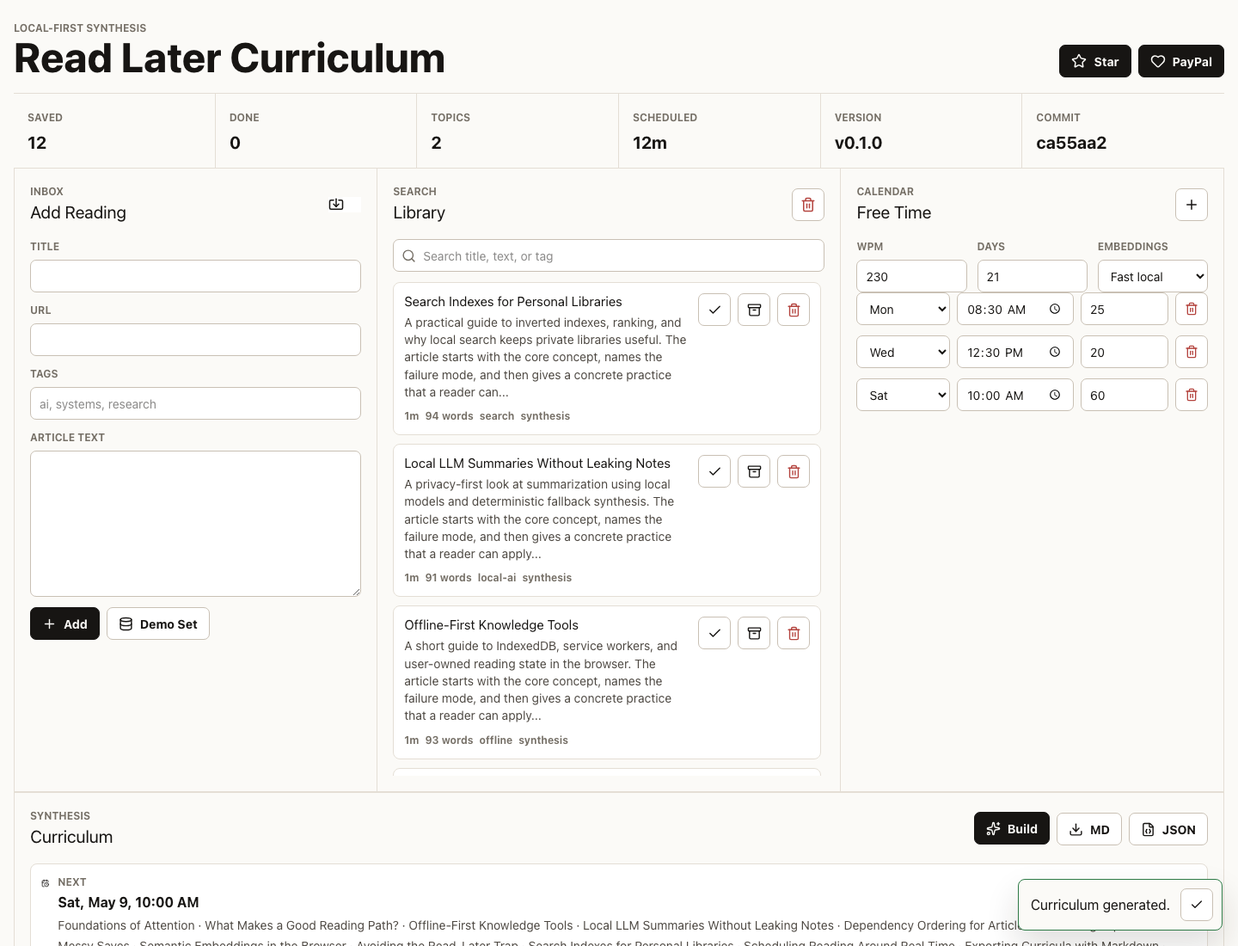
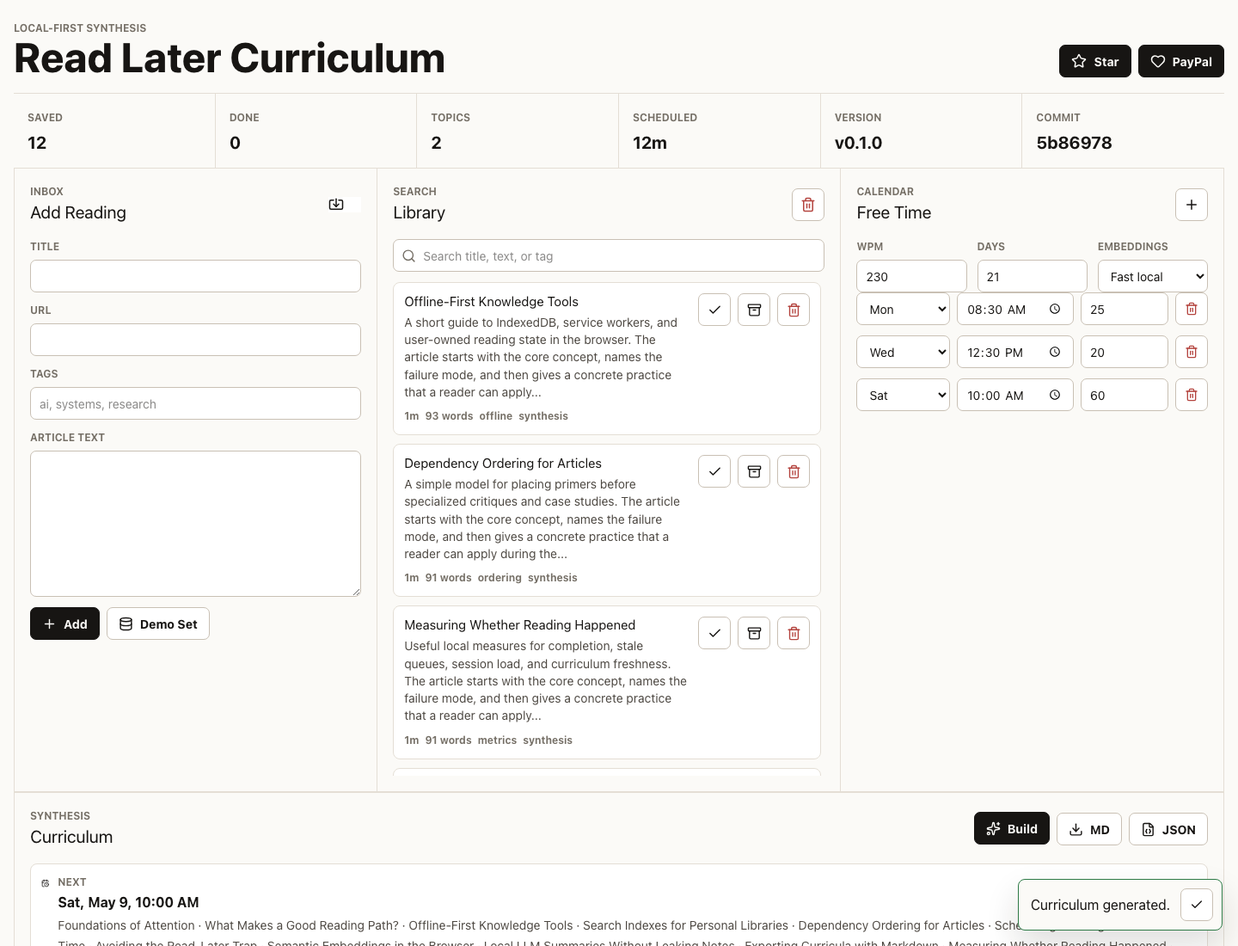
ops: make pages build metadata deterministic

diff --git a/docs/assets/index-B84jUUXN.js b/docs/assets/index-B84jUUXN.js
@@ -1,0 +1,3 @@
+const __vite__mapDeps=(i,m=__vite__mapDeps,d=(m.f||(m.f=["assets/rolldown-runtime-DWdDZTNf.js"])))=>i.map(i=>d[i]);
+import{i as e}from"./rolldown-runtime-DWdDZTNf.js";import{S as t,_ as n,a as r,b as i,c as a,d as o,f as s,g as c,h as l,i as u,l as ee,m as te,n as ne,o as re,p as ie,r as ae,s as oe,t as d,u as se,v as ce,x as f,y as le}from"./vendor-react-DQ0RudYS.js";import{a as p,c as m,d as h,f as g,i as _,l as v,o as y,p as b,r as ue,s as x,t as S,u as de}from"./vendor-CgVfIPGj.js";import{n as C}from"./semantic-embeddings-DmI_ctx4.js";(function(){let e=document.createElement(`link`).relList;if(e&&e.supports&&e.supports(`modulepreload`))return;for(let e of document.querySelectorAll(`link[rel="modulepreload"]`))n(e);new MutationObserver(e=>{for(let t of e)if(t.type===`childList`)for(let e of t.addedNodes)e.tagName===`LINK`&&e.rel===`modulepreload`&&n(e)}).observe(document,{childList:!0,subtree:!0});function t(e){let t={};return e.integrity&&(t.integrity=e.integrity),e.referrerPolicy&&(t.referrerPolicy=e.referrerPolicy),e.crossOrigin===`use-credentials`?t.credentials=`include`:e.crossOrigin===`anonymous`?t.credentials=`omit`:t.credentials=`same-origin`,t}function n(e){if(e.ep)return;e.ep=!0;let n=t(e);fetch(e.href,n)}})();var w=e(t(),1),T=f(),E=`Read Later Curriculum`,D=`https://github.com/baditaflorin/read-later-curriculum`,fe=`https://www.paypal.com/paypalme/florinbadita`,pe=`https://baditaflorin.github.io/read-later-curriculum/`,me=`0.1.0`,he=`5b86978`,ge=`2026-05-08T09:23:25.293Z`,O={readingSpeedWpm:230,daysToPlan:21,embeddingMode:`fast`,freeSlots:[{id:`weekday-morning`,weekday:1,startTime:`08:30`,minutes:25},{id:`weekday-lunch`,weekday:3,startTime:`12:30`,minutes:20},{id:`weekend-deep`,weekday:6,startTime:`10:00`,minutes:60}]},k=[`Sun`,`Mon`,`Tue`,`Wed`,`Thu`,`Fri`,`Sat`],A=new Set(`a.about.after.all.also.an.and.are.as.at.be.because.been.but.by.can.could.did.do.does.for.from.had.has.have.how.if.in.into.is.it.its.more.most.new.not.of.on.or.our.should.so.than.that.the.their.then.there.these.they.this.to.up.use.was.we.were.what.when.where.which.who.will.with.would.you.your`.split(`.`));function j(e){return e.replace(/\s+/g,` `).trim()}function M(e){return j(e).toLowerCase().replace(/https?:\/\/\S+/g,` `).replace(/[^a-z0-9\s-]/g,` `).split(/\s+/).map(e=>e.replace(/^-+|-+$/g,``)).filter(e=>e.length>2&&!A.has(e))}function N(e){return j(e).match(/\b[\p{L}\p{N}'-]+\b/gu)?.length??0}function P(e,t){return Math.max(1,Math.ceil(N(e)/Math.max(120,t)))}function F(e,t=220){let n=j(e);return n.length<=t?n:`${n.slice(0,t).replace(/\s+\S*$/,``)}...`}function _e(e,t=6){let n=new Map;for(let t of e){let e=new Set;for(let r of M(t))e.has(r)||(e.add(r),n.set(r,(n.get(r)??0)+1))}return[...n.entries()].sort((e,t)=>t[1]-e[1]||e[0].localeCompare(t[0])).slice(0,t).map(([e])=>e)}function I(e,t){let n=0,r=0,i=0,a=Math.min(e.length,t.length);for(let o=0;o<a;o+=1)n+=e[o]*t[o],r+=e[o]*e[o],i+=t[o]*t[o];return r===0||i===0?0:n/(Math.sqrt(r)*Math.sqrt(i))}function L(e){let t=Math.sqrt(e.reduce((e,t)=>e+t*t,0));return t===0?e:e.map(e=>e/t)}function R(e){let t=j(e);return t.length>78?`${t.slice(0,78).replace(/\s+\S*$/,``)}...`:t}function ve(e,t,n){let r=new Blob([t],{type:n}),i=URL.createObjectURL(r),a=document.createElement(`a`);a.href=i,a.download=e,a.click(),URL.revokeObjectURL(i)}function z(e){if(e<60)return`${e}m`;let t=Math.floor(e/60),n=e%60;return n===0?`${t}h`:`${t}h ${n}m`}function B(e){return new Intl.DateTimeFormat(void 0,{weekday:`short`,month:`short`,day:`numeric`,hour:`numeric`,minute:`2-digit`}).format(new Date(e))}function V(e){return`randomUUID`in crypto?`${e}_${crypto.randomUUID()}`:`${e}_${Date.now().toString(36)}_${Math.random().toString(36).slice(2)}`}var H=g(),U=v().trim().url().optional().or(y(``).transform(()=>void 0)),W=m({title:v().trim().min(1,`Title is required`),sourceUrl:U,author:v().trim().optional(),content:v().trim().min(40,`Article text must be at least 40 characters`),tags:p(v().trim().min(1)).default([])});W.extend({id:v(),excerpt:v(),wordCount:x().int().nonnegative(),readingMinutes:x().int().positive(),status:_([`saved`,`scheduled`,`reading`,`done`,`archived`]),createdAt:v(),updatedAt:v(),completedAt:v().optional()}).partial({id:!0,excerpt:!0,wordCount:!0,readingMinutes:!0,status:!0,createdAt:!0,updatedAt:!0});function G(e,t){let n=W.parse(e),r=new Date().toISOString(),i=j(n.content),a=j(n.title),o=[...new Set(n.tags.map(e=>e.toLowerCase()))],s=i.split(/\s+/).filter(Boolean).length;return{id:V(`article`),title:a,sourceUrl:n.sourceUrl,author:n.author?j(n.author):void 0,content:i,excerpt:F(i),tags:o,wordCount:s,readingMinutes:P(i,t),status:`saved`,createdAt:r,updatedAt:r}}var ye=de([p(h()),m({articles:p(h())})]);function be(e){let t=e.tags?.split(`,`).map(e=>e.trim()).filter(Boolean)??[];return W.parse({title:e.title,sourceUrl:e.sourceUrl,content:e.content,tags:t})}function xe(e,t=`article.txt`){let n=j(e),r=e.split(/\r?\n/).map(e=>e.trim()).filter(Boolean).find(e=>e.length>4&&e.length<140);return W.parse({title:r??t.replace(/\.[^.]+$/,``),content:n,tags:[]})}function Se(e,t=`article.md`){let n=e.match(/^#\s+(.+)$/m)?.[1],r=e.replace(/^#{1,6}\s+/gm,``).replace(/\[([^\]]+)\]\([^)]+\)/g,`$1`).replace(/[`*_>#-]/g,` `);return W.parse({title:n?.trim()||t.replace(/\.[^.]+$/,``),content:j(r),tags:[`markdown`]})}function Ce(e,t=`article.html`){let n=new DOMParser().parseFromString(e,`text/html`),r=new H.Readability(n).parse(),i=r?.title||n.querySelector(`title`)?.textContent||t.replace(/\.[^.]+$/,``),a=r?.textContent||n.body?.textContent||n.documentElement.textContent||F(e,500);return W.parse({title:i,author:r?.byline??void 0,content:j(a),tags:[`html`]})}function we(e){let t=JSON.parse(e),n=ye.parse(t),r=Array.isArray(n)?n:n.articles,i=[],a=[];return r.forEach((e,t)=>{let n=W.safeParse(e);n.success?a.push(n.data):i.push(`Skipped item ${t+1}: ${n.error.issues[0]?.message??`invalid article`}`)}),{articles:a,warnings:i}}async function Te(e){let t=await e.text(),n=e.name.toLowerCase();return n.endsWith(`.json`)?we(t):{articles:[n.endsWith(`.html`)||n.endsWith(`.htm`)?Ce(t,e.name):n.endsWith(`.md`)||n.endsWith(`.markdown`)?Se(t,e.name):xe(t,e.name)],warnings:[]}}var K=new ue(`read-later-curriculum`);K.version(1).stores({articles:`id, title, status, createdAt, updatedAt, *tags`,plans:`id, generatedAt`,settings:`key`});async function Ee(){return K.articles.orderBy(`createdAt`).reverse().toArray()}async function De(e){return await K.articles.bulkPut(e),Ee()}async function Oe(e){let t={...e,updatedAt:new Date().toISOString()};return await K.articles.put(t),t}async function ke(e){await K.articles.delete(e)}async function Ae(){await K.articles.clear(),await K.plans.clear()}async function je(){return await K.plans.orderBy(`generatedAt`).reverse().first()??null}async function Me(e){return await K.plans.put(e),e}async function Ne(){return(await K.settings.get(`user-settings`))?.value??O}async function Pe(e){return await K.settings.put({key:`user-settings`,value:e}),e}var Fe=S.Document;function Ie(e,t){let n=t.trim();if(!n)return e;let r=new Fe({tokenize:`forward`,document:{id:`id`,index:[`title`,`content`,`tags`]}});for(let t of e)r.add({id:t.id,title:t.title,content:`${t.excerpt} ${t.content.slice(0,8e3)}`,tags:t.tags.join(` `)});let i=new Set(r.search(n,{enrich:!0,limit:100}).flatMap(e=>e.result.map(e=>e.id)));return e.filter(e=>i.has(e.id))}var q=96,Le=`sentence-transformers/all-MiniLM-L6-v2`;function Re(e){let t=2166136261;for(let n=0;n<e.length;n+=1)t^=e.charCodeAt(n),t=Math.imul(t,16777619);return t>>>0}function ze(e){return e.map(e=>{let t=Array.from({length:q},()=>0);for(let n of M(e)){let e=Re(n),r=e%q,i=e%2==0?1:-1;t[r]+=i}return L(t)})}function Be(e,t){if(Array.isArray(e))return e.map(e=>L(e.map(Number)));let n=e.tolist?.();if(Array.isArray(n)){let e=n[0];if(Array.isArray(e)&&Array.isArray(e[0]))return n.map(e=>L(e[0].map(Number)));if(Array.isArray(e))return n.map(e=>L(e.map(Number)))}if(e.data&&e.dims&&e.dims.length>=2){let n=[...e.data].map(Number),r=e.dims.at(-1)??q,i=[];for(let e=0;e<n.length;e+=r)i.push(L(n.slice(e,e+r)));return i.slice(0,t)}throw Error(`Embedding model returned an unsupported tensor shape`)}async function Ve(e,t,n){if(t===`fast`)return n?.({completed:e.length,total:e.length,detail:`Using fast local hash embeddings`}),{vectors:ze(e),provider:`hash-local`};try{n?.({completed:0,total:e.length,detail:`Loading sentence-transformers model`});let t=await C(()=>import(`./semantic-embeddings-DmI_ctx4.js`).then(e=>e.t),__vite__mapDeps([0]));t.env&&(t.env.allowLocalModels=!1,t.env.allowRemoteModels=!0);let r=await t.pipeline(`feature-extraction`,Le,{dtype:`q8`,device:`wasm`}),i=[];for(let t=0;t<e.length;t+=8){let a=e.slice(t,t+8),o=await r(a,{pooling:`mean`,normalize:!0});i.push(...Be(o,a.length)),n?.({completed:Math.min(t+a.length,e.length),total:e.length,detail:`Embedding articles with sentence-transformers`})}return{vectors:i,provider:`sentence-transformers`}}catch{return n?.({completed:e.length,total:e.length,detail:`Semantic model unavailable; using local fallback embeddings`}),{vectors:ze(e),provider:`sentence-transformers-fallback`}}}function He(e,t,n=new Date){let r=[],i=new Date(n);i.setSeconds(0,0);for(let a=0;a<=t;a+=1){let t=new Date(i);t.setDate(i.getDate()+a);for(let i of e){if(t.getDay()!==i.weekday)continue;let[e,a]=i.startTime.split(`:`).map(Number),o=new Date(t);o.setHours(e,a,0,0),o>n&&r.push({startsAt:o,slot:i})}}return r.sort((e,t)=>e.startsAt.getTime()-t.startsAt.getTime())}function Ue(e,t,n,r){let i=new Map;for(let e of t)for(let t of e.articleIds)i.set(t,e.id);let a=He(n,r),o=[...e],s=[];for(let{startsAt:e,slot:n}of a){if(o.length===0)break;let r=[],a=0;for(;o.length>0;){let e=o[0];if(r.length>0&&a+e.readingMinutes>n.minutes||(r.push(e),a+=e.readingMinutes,o.shift(),a>=n.minutes*.8))break}let c=r[0];s.push({id:V(`session`),topicId:i.get(c.id)??t[0]?.id??`topic_misc`,articleIds:r.map(e=>e.id),startsAt:e.toISOString(),durationMinutes:n.minutes,loadMinutes:a,label:`${n.startTime} reading block`,status:`planned`})}return s}function We(e,t){let n=e.slice(0,4).map(e=>e.title).join(`; `);return`Focuses on ${t.slice(0,4).join(`, `)||`related ideas`} through ${e.length} reading${e.length===1?``:`s`}: ${n}.`}var Ge=new Set([`beginner`,`basics`,`basic`,`foundation`,`foundations`,`guide`,`intro`,`introduction`,`overview`,`primer`,`start`,`what`]);function Ke(e){return e<=3?1:Math.min(12,Math.max(2,Math.round(Math.sqrt(e/2))))}function qe(e){if(e.length===0)return[];let t=e[0].length,n=Array.from({length:t},()=>0);for(let r of e)for(let e=0;e<t;e+=1)n[e]+=r[e];return L(n.map(t=>t/e.length))}function Je(e,t){let n=[e[0]];for(;n.length<t;){let t=0,r=-1/0;e.forEach((e,i)=>{let a=1-Math.max(...n.map(t=>I(e,t)));a>r&&(r=a,t=i)}),n.push(e[t])}return n}function Ye(e,t,n){let r=Je(t,n),i=[];for(let n=0;n<8;n+=1)i=e.map((e,n)=>{let i=t[n];return{article:e,vector:i,clusterIndex:r.map((e,t)=>({centroidIndex:t,score:I(i,e)})).sort((e,t)=>t.score-e.score)[0].centroidIndex}}),r=r.map((e,t)=>{let n=i.filter(e=>e.clusterIndex===t).map(e=>e.vector);return n.length>0?qe(n):e});return i}function J(e){let t=M(`${e.title} ${e.excerpt}`).filter(e=>Ge.has(e)).length*4,n=Math.max(0,8-e.readingMinutes)*.3,r=+!!e.title.endsWith(`?`);return t+n+r}function Xe(e){let t=new Map;for(let n of e){let e=t.get(n.clusterIndex)??[];e.push(n),t.set(n.clusterIndex,e)}return[...t.entries()].map(([e,t])=>{let n=t.map(e=>e.article),r=_e(n.map(e=>`${e.title} ${e.excerpt} ${e.tags.join(` `)}`),6),i=r.length>0?r.slice(0,3).map(Ze).join(` / `):`Reading Path`,a=n.sort((e,t)=>J(t)-J(e)||e.readingMinutes-t.readingMinutes).map(e=>e.id);return{id:`topic_${e+1}`,label:i,summary:We(n,r),articleIds:a,prerequisiteTopicIds:[],readingMinutes:n.reduce((e,t)=>e+t.readingMinutes,0),keywords:r,foundation:n.reduce((e,t)=>e+J(t),0)/n.length}}).sort((e,t)=>t.foundation-e.foundation||e.readingMinutes-t.readingMinutes).map((e,t,n)=>({id:e.id,label:e.label,summary:e.summary,articleIds:e.articleIds,prerequisiteTopicIds:t===0?[]:[n[t-1].id],readingMinutes:e.readingMinutes,keywords:e.keywords}))}function Ze(e){return e.charAt(0).toUpperCase()+e.slice(1)}function Qe(e){let t=[...e].sort((e,t)=>J(t)-J(e)||e.readingMinutes-t.readingMinutes),n=t.filter(e=>e.readingMinutes<=8),r=t.filter(e=>e.readingMinutes>8),i=[];for(;n.length>0||r.length>0;){let e=n.shift();e&&i.push(e);let t=r.shift();t&&i.push(t)}return i}async function $e(e,t,n){let r=e.filter(e=>e.status!==`archived`);if(r.length===0)throw Error(`Add at least one article before building a curriculum.`);n?.({phase:`embedding`,detail:`Preparing article text`,completed:0,total:r.length});let i=await Ve(r.map(e=>`${e.title}\n${e.tags.join(`, `)}\n${e.excerpt}\n${e.content.slice(0,3e3)}`),t.embeddingMode,e=>n?.({phase:`embedding`,...e}));n?.({phase:`clustering`,detail:`Clustering nearby ideas`,completed:r.length,total:r.length});let a=Ke(r.length),o=Ye(r,i.vectors,a);n?.({phase:`ordering`,detail:`Dependency-ordering topics`,completed:0,total:a});let s=Xe(o),c=new Map(r.map(e=>[e.id,e])),l=s.flatMap(e=>Qe(e.articleIds.map(e=>c.get(e)).filter(Boolean)));n?.({phase:`scheduling`,detail:`Packing readings into free time`,completed:0,total:l.length});let u=Ue(l,s,t.freeSlots,t.daysToPlan);return n?.({phase:`done`,detail:`Curriculum ready`,completed:l.length,total:l.length}),{id:V(`plan`),schemaVersion:`v1`,generatedAt:new Date().toISOString(),articleCount:r.length,totalReadingMinutes:r.reduce((e,t)=>e+t.readingMinutes,0),embeddingProvider:i.provider,topics:s,sessions:u,orderedArticleIds:l.map(e=>e.id),settings:t}}function et(e,t){if(!e)return null;let n=new Map(t.map(e=>[e.id,e])),r=e.sessions.find(e=>e.status===`planned`)??e.sessions[0];return r?{session:r,articles:r.articleIds.map(e=>n.get(e)).filter(e=>!!e),title:R(r.label)}:null}function tt(e,t){return JSON.stringify({exportedAt:new Date().toISOString(),app:E,repository:D,articles:t,plan:e},null,2)}function nt(e,t){let n=new Map(t.map(e=>[e.id,e])),r=[`# ${E}`,``,`Generated: ${e.generatedAt}`,`Articles: ${e.articleCount}`,`Reading time: ${e.totalReadingMinutes} minutes`,`Embedding provider: ${e.embeddingProvider}`,`Repository: ${D}`,``,`## Topics`,``];for(let t of e.topics){r.push(`### ${t.label}`,``,t.summary,``),t.prerequisiteTopicIds.length>0&&r.push(`Prerequisite topic: ${t.prerequisiteTopicIds.join(`, `)}`,``);for(let e of t.articleIds){let t=n.get(e);t&&r.push(`- ${t.title} (${t.readingMinutes}m)${t.sourceUrl?` - ${t.sourceUrl}`:``}`)}r.push(``)}r.push(`## Schedule`,``);for(let t of e.sessions){let e=t.articleIds.map(e=>n.get(e)?.title).filter(Boolean).join(`; `);r.push(`- ${B(t.startsAt)}: ${e} (${t.loadMinutes}m in ${t.durationMinutes}m slot)`)}return r.push(``,`## Pandoc`,``,`This Markdown is Pandoc-ready:`,``,"```sh",`pandoc curriculum.md -o curriculum.pdf`,"```",``),r.join(`
+`)}var Y=i(),X=[`articles`],Z=[`plan`],rt=[`settings`],it=[];function Q(e){return e instanceof Error?e.message:`Something went wrong.`}function at(e){return`${k[e.weekday]} ${e.startTime} · ${e.minutes}m`}function ot(){let e=le(),[t,i]=(0,w.useState)(null),[l,ce]=(0,w.useState)(``),[f,p]=(0,w.useState)(``),[m,h]=(0,w.useState)(``),[g,_]=(0,w.useState)(``),[v,y]=(0,w.useState)(``),[b,ue]=(0,w.useState)({phase:`idle`,detail:``,completed:0,total:0}),x=n({queryKey:X,queryFn:Ee}),S=n({queryKey:Z,queryFn:je}),de=n({queryKey:rt,queryFn:Ne}),C=x.data??it,T=S.data??null,A=de.data??O,j=(0,w.useMemo)(()=>Ie(C,l),[C,l]),M=(0,w.useMemo)(()=>et(T,C),[C,T]),N=C.filter(e=>e.status===`done`).length,P=c({mutationFn:De,onSuccess:()=>{e.invalidateQueries({queryKey:X}),i({tone:`success`,message:`Library updated.`})},onError:e=>i({tone:`error`,message:Q(e)})}),F=c({mutationFn:Oe,onSuccess:()=>{e.invalidateQueries({queryKey:X}),e.invalidateQueries({queryKey:Z})},onError:e=>i({tone:`error`,message:Q(e)})}),_e=c({mutationFn:Pe,onSuccess:()=>void e.invalidateQueries({queryKey:rt}),onError:e=>i({tone:`error`,message:Q(e)})}),I=c({mutationFn:async()=>Me(await $e(C,A,ue)),onSuccess:()=>{e.invalidateQueries({queryKey:Z}),i({tone:`success`,message:`Curriculum generated.`})},onError:e=>i({tone:`error`,message:Q(e)})});async function L(e){e.preventDefault();let t=G(be({title:f,sourceUrl:m,tags:g,content:v}),A.readingSpeedWpm);await P.mutateAsync([t]),p(``),h(``),_(``),y(``)}async function R(e){let t=[...e.target.files??[]];if(t.length===0)return;let n=[],r=[];for(let e of t){let t=await Te(e);r.push(...t.warnings),n.push(...t.articles.map(e=>G(e,A.readingSpeedWpm)))}await P.mutateAsync(n),r.length>0&&i({tone:`info`,message:r.slice(0,2).join(` `)}),e.target.value=``}async function V(){let e=await fetch(`/read-later-curriculum/data/v1/sample-articles.json`);if(!e.ok)throw Error(`Sample articles are missing. Run make data.`);let t=(await e.json()).map(e=>G(e,A.readingSpeedWpm));await P.mutateAsync(t)}function H(e){_e.mutate({...A,...e})}function U(e,t){H({freeSlots:A.freeSlots.map(n=>n.id===e?{...n,...t}:n)})}function W(){H({freeSlots:[...A.freeSlots,{id:`slot_${Date.now().toString(36)}`,weekday:2,startTime:`18:30`,minutes:30}]})}async function ye(t){await ke(t),await e.invalidateQueries({queryKey:X}),i({tone:`success`,message:`Article removed.`})}async function xe(){await Ae(),await e.invalidateQueries({queryKey:X}),await e.invalidateQueries({queryKey:Z}),i({tone:`success`,message:`Local library cleared.`})}function Se(){if(!T){i({tone:`error`,message:`Build a curriculum first.`});return}ve(`curriculum.md`,nt(T,C),`text/markdown`)}function Ce(){if(!T){i({tone:`error`,message:`Build a curriculum first.`});return}ve(`read-later-curriculum-v1.json`,tt(T,C),`application/json`)}return(0,Y.jsxs)(`main`,{className:`app-shell`,children:[(0,Y.jsxs)(`header`,{className:`topbar`,children:[(0,Y.jsxs)(`div`,{children:[(0,Y.jsx)(`p`,{className:`eyebrow`,children:`Local-first synthesis`}),(0,Y.jsx)(`h1`,{children:E})]}),(0,Y.jsxs)(`nav`,{"aria-label":`Project links`,className:`topbar-actions`,children:[(0,Y.jsxs)(`a`,{href:D,target:`_blank`,rel:`noreferrer`,className:`icon-link`,title:`Star on GitHub`,children:[(0,Y.jsx)(ne,{size:18,"aria-hidden":`true`}),(0,Y.jsx)(`span`,{children:`Star`})]}),(0,Y.jsxs)(`a`,{href:fe,target:`_blank`,rel:`noreferrer`,className:`icon-link`,title:`Support on PayPal`,children:[(0,Y.jsx)(a,{size:18,"aria-hidden":`true`}),(0,Y.jsx)(`span`,{children:`PayPal`})]})]})]}),(0,Y.jsxs)(`section`,{className:`summary-strip`,"aria-label":`Library summary`,children:[(0,Y.jsx)($,{label:`Saved`,value:C.length.toString()}),(0,Y.jsx)($,{label:`Done`,value:N.toString()}),(0,Y.jsx)($,{label:`Topics`,value:(T?.topics.length??0).toString()}),(0,Y.jsx)($,{label:`Scheduled`,value:z(T?.sessions.reduce((e,t)=>e+t.loadMinutes,0)??0)}),(0,Y.jsx)($,{label:`Version`,value:`v${me}`}),(0,Y.jsx)($,{label:`Commit`,value:he})]}),(0,Y.jsxs)(`div`,{className:`workspace-grid`,children:[(0,Y.jsxs)(`section`,{className:`panel import-panel`,"aria-labelledby":`add-article`,children:[(0,Y.jsxs)(`div`,{className:`panel-heading`,children:[(0,Y.jsxs)(`div`,{children:[(0,Y.jsx)(`p`,{className:`eyebrow`,children:`Inbox`}),(0,Y.jsx)(`h2`,{id:`add-article`,children:`Add Reading`})]}),(0,Y.jsxs)(`label`,{className:`icon-button`,title:`Import files`,children:[(0,Y.jsx)(oe,{size:18,"aria-hidden":`true`}),(0,Y.jsx)(`span`,{className:`sr-only`,children:`Import files`}),(0,Y.jsx)(`input`,{type:`file`,accept:`.txt,.md,.markdown,.html,.htm,.json`,multiple:!0,onChange:R})]})]}),(0,Y.jsxs)(`form`,{className:`article-form`,onSubmit:L,children:[(0,Y.jsxs)(`label`,{children:[(0,Y.jsx)(`span`,{children:`Title`}),(0,Y.jsx)(`input`,{value:f,onChange:e=>p(e.target.value),required:!0})]}),(0,Y.jsxs)(`label`,{children:[(0,Y.jsx)(`span`,{children:`URL`}),(0,Y.jsx)(`input`,{type:`url`,value:m,onChange:e=>h(e.target.value)})]}),(0,Y.jsxs)(`label`,{children:[(0,Y.jsx)(`span`,{children:`Tags`}),(0,Y.jsx)(`input`,{value:g,onChange:e=>_(e.target.value),placeholder:`ai, systems, research`})]}),(0,Y.jsxs)(`label`,{children:[(0,Y.jsx)(`span`,{children:`Article text`}),(0,Y.jsx)(`textarea`,{value:v,onChange:e=>y(e.target.value),required:!0,minLength:40})]}),(0,Y.jsxs)(`div`,{className:`button-row`,children:[(0,Y.jsxs)(`button`,{type:`submit`,disabled:P.isPending,children:[(0,Y.jsx)(r,{size:17,"aria-hidden":`true`}),`Add`]}),(0,Y.jsxs)(`button`,{type:`button`,className:`secondary`,onClick:V,children:[(0,Y.jsx)(o,{size:17,"aria-hidden":`true`}),`Demo Set`]})]})]})]}),(0,Y.jsxs)(`section`,{className:`panel library-panel`,"aria-labelledby":`library-heading`,children:[(0,Y.jsxs)(`div`,{className:`panel-heading`,children:[(0,Y.jsxs)(`div`,{children:[(0,Y.jsx)(`p`,{className:`eyebrow`,children:`Search`}),(0,Y.jsx)(`h2`,{id:`library-heading`,children:`Library`})]}),(0,Y.jsxs)(`button`,{type:`button`,className:`icon-button danger`,title:`Clear local library`,onClick:xe,children:[(0,Y.jsx)(d,{size:18,"aria-hidden":`true`}),(0,Y.jsx)(`span`,{className:`sr-only`,children:`Clear local library`})]})]}),(0,Y.jsxs)(`label`,{className:`search-field`,children:[(0,Y.jsx)(u,{size:17,"aria-hidden":`true`}),(0,Y.jsx)(`span`,{className:`sr-only`,children:`Search articles`}),(0,Y.jsx)(`input`,{value:l,onChange:e=>ce(e.target.value),placeholder:`Search title, text, or tag`})]}),(0,Y.jsx)(`div`,{className:`article-list`,"aria-live":`polite`,children:j.length===0?(0,Y.jsxs)(`div`,{className:`empty-state`,children:[(0,Y.jsx)(re,{size:26,"aria-hidden":`true`}),(0,Y.jsx)(`p`,{children:`No articles in this view.`})]}):j.map(e=>(0,Y.jsx)(st,{article:e,onDone:()=>F.mutate({...e,status:e.status===`done`?`saved`:`done`,completedAt:e.status===`done`?void 0:new Date().toISOString()}),onArchive:()=>F.mutate({...e,status:`archived`}),onDelete:()=>void ye(e.id)},e.id))})]}),(0,Y.jsxs)(`section`,{className:`panel settings-panel`,"aria-labelledby":`settings-heading`,children:[(0,Y.jsxs)(`div`,{className:`panel-heading`,children:[(0,Y.jsxs)(`div`,{children:[(0,Y.jsx)(`p`,{className:`eyebrow`,children:`Calendar`}),(0,Y.jsx)(`h2`,{id:`settings-heading`,children:`Free Time`})]}),(0,Y.jsxs)(`button`,{type:`button`,className:`icon-button`,title:`Add slot`,onClick:W,children:[(0,Y.jsx)(r,{size:18,"aria-hidden":`true`}),(0,Y.jsx)(`span`,{className:`sr-only`,children:`Add slot`})]})]}),(0,Y.jsxs)(`div`,{className:`settings-grid`,children:[(0,Y.jsxs)(`label`,{children:[(0,Y.jsx)(`span`,{children:`WPM`}),(0,Y.jsx)(`input`,{type:`number`,min:120,max:600,value:A.readingSpeedWpm,onChange:e=>H({readingSpeedWpm:Number(e.target.value)})})]}),(0,Y.jsxs)(`label`,{children:[(0,Y.jsx)(`span`,{children:`Days`}),(0,Y.jsx)(`input`,{type:`number`,min:3,max:90,value:A.daysToPlan,onChange:e=>H({daysToPlan:Number(e.target.value)})})]}),(0,Y.jsxs)(`label`,{children:[(0,Y.jsx)(`span`,{children:`Embeddings`}),(0,Y.jsxs)(`select`,{value:A.embeddingMode,onChange:e=>H({embeddingMode:e.target.value}),children:[(0,Y.jsx)(`option`,{value:`fast`,children:`Fast local`}),(0,Y.jsx)(`option`,{value:`semantic`,children:`Sentence-transformers`})]})]})]}),(0,Y.jsx)(`div`,{className:`slot-list`,children:A.freeSlots.map(e=>(0,Y.jsxs)(`div`,{className:`slot-row`,children:[(0,Y.jsx)(`select`,{value:e.weekday,onChange:t=>U(e.id,{weekday:Number(t.target.value)}),children:k.map((e,t)=>(0,Y.jsx)(`option`,{value:t,children:e},e))}),(0,Y.jsx)(`input`,{type:`time`,value:e.startTime,onChange:t=>U(e.id,{startTime:t.target.value})}),(0,Y.jsx)(`input`,{type:`number`,min:10,max:180,value:e.minutes,onChange:t=>U(e.id,{minutes:Number(t.target.value)})}),(0,Y.jsxs)(`button`,{type:`button`,className:`icon-button danger`,title:`Remove ${at(e)}`,onClick:()=>H({freeSlots:A.freeSlots.filter(t=>t.id!==e.id)}),children:[(0,Y.jsx)(d,{size:16,"aria-hidden":`true`}),(0,Y.jsxs)(`span`,{className:`sr-only`,children:[`Remove `,at(e)]})]})]},e.id))})]}),(0,Y.jsxs)(`section`,{className:`panel curriculum-panel`,"aria-labelledby":`curriculum-heading`,children:[(0,Y.jsxs)(`div`,{className:`panel-heading`,children:[(0,Y.jsxs)(`div`,{children:[(0,Y.jsx)(`p`,{className:`eyebrow`,children:`Synthesis`}),(0,Y.jsx)(`h2`,{id:`curriculum-heading`,children:`Curriculum`})]}),(0,Y.jsxs)(`div`,{className:`button-row compact`,children:[(0,Y.jsxs)(`button`,{type:`button`,onClick:()=>I.mutate(),disabled:I.isPending||C.length===0,children:[(0,Y.jsx)(ae,{size:17,"aria-hidden":`true`}),`Build`]}),(0,Y.jsxs)(`button`,{type:`button`,className:`secondary`,onClick:Se,children:[(0,Y.jsx)(se,{size:17,"aria-hidden":`true`}),`MD`]}),(0,Y.jsxs)(`button`,{type:`button`,className:`secondary`,onClick:Ce,children:[(0,Y.jsx)(ee,{size:17,"aria-hidden":`true`}),`JSON`]})]})]}),I.isPending&&(0,Y.jsxs)(`div`,{className:`progress-block`,role:`status`,children:[(0,Y.jsxs)(`div`,{children:[(0,Y.jsx)(`span`,{children:b.phase}),(0,Y.jsx)(`strong`,{children:b.detail})]}),(0,Y.jsx)(`progress`,{value:b.completed,max:Math.max(b.total,1)})]}),M&&(0,Y.jsxs)(`div`,{className:`next-reading`,children:[(0,Y.jsx)(ie,{size:20,"aria-hidden":`true`}),(0,Y.jsxs)(`div`,{children:[(0,Y.jsx)(`p`,{className:`eyebrow`,children:`Next`}),(0,Y.jsx)(`strong`,{children:B(M.session.startsAt)}),(0,Y.jsx)(`span`,{children:M.articles.map(e=>e.title).join(` · `)})]})]}),T?(0,Y.jsxs)(`div`,{className:`curriculum-layout`,children:[(0,Y.jsx)(`div`,{className:`topic-list`,children:T.topics.map((e,t)=>(0,Y.jsxs)(`article`,{className:`topic-item`,children:[(0,Y.jsx)(`div`,{className:`topic-index`,children:t+1}),(0,Y.jsxs)(`div`,{children:[(0,Y.jsx)(`h3`,{children:e.label}),(0,Y.jsx)(`p`,{children:e.summary}),(0,Y.jsxs)(`span`,{children:[z(e.readingMinutes),` ·`,` `,e.articleIds.length,` readings`]})]})]},e.id))}),(0,Y.jsx)(`div`,{className:`session-list`,children:T.sessions.slice(0,12).map(e=>(0,Y.jsxs)(`article`,{className:`session-item`,children:[(0,Y.jsx)(`span`,{children:B(e.startsAt)}),(0,Y.jsx)(`strong`,{children:z(e.loadMinutes)}),(0,Y.jsx)(`p`,{children:e.articleIds.map(e=>C.find(t=>t.id===e)?.title).filter(Boolean).join(` · `)})]},e.id))})]}):(0,Y.jsxs)(`div`,{className:`empty-state`,children:[(0,Y.jsx)(te,{size:28,"aria-hidden":`true`}),(0,Y.jsx)(`p`,{children:`Build once articles are saved.`})]})]})]}),(0,Y.jsxs)(`footer`,{className:`footer`,children:[(0,Y.jsx)(`span`,{children:pe}),(0,Y.jsxs)(`span`,{children:[`v`,me]}),(0,Y.jsx)(`span`,{children:he}),(0,Y.jsx)(`span`,{children:new Date(ge).toLocaleString()})]}),t&&(0,Y.jsxs)(`div`,{className:`toast ${t.tone}`,role:`status`,children:[(0,Y.jsx)(`span`,{children:t.message}),(0,Y.jsxs)(`button`,{type:`button`,className:`icon-button`,title:`Dismiss`,onClick:()=>i(null),children:[(0,Y.jsx)(s,{size:16,"aria-hidden":`true`}),(0,Y.jsx)(`span`,{className:`sr-only`,children:`Dismiss`})]})]})]})}function $({label:e,value:t}){return(0,Y.jsxs)(`div`,{className:`stat`,children:[(0,Y.jsx)(`span`,{children:e}),(0,Y.jsx)(`strong`,{children:t})]})}function st({article:e,onDone:t,onArchive:n,onDelete:r}){return(0,Y.jsxs)(`article`,{className:`article-row ${e.status===`done`?`is-done`:``}`,children:[(0,Y.jsxs)(`div`,{children:[(0,Y.jsx)(`h3`,{children:e.title}),(0,Y.jsx)(`p`,{children:e.excerpt}),(0,Y.jsxs)(`div`,{className:`article-meta`,children:[(0,Y.jsx)(`span`,{children:z(e.readingMinutes)}),(0,Y.jsxs)(`span`,{children:[e.wordCount,` words`]}),e.tags.map(e=>(0,Y.jsx)(`span`,{children:e},e))]})]}),(0,Y.jsxs)(`div`,{className:`article-actions`,children:[(0,Y.jsxs)(`button`,{type:`button`,className:`icon-button`,title:`Toggle done`,onClick:t,children:[(0,Y.jsx)(s,{size:17,"aria-hidden":`true`}),(0,Y.jsx)(`span`,{className:`sr-only`,children:`Toggle done`})]}),(0,Y.jsxs)(`button`,{type:`button`,className:`icon-button`,title:`Archive`,onClick:n,children:[(0,Y.jsx)(l,{size:17,"aria-hidden":`true`}),(0,Y.jsx)(`span`,{className:`sr-only`,children:`Archive`})]}),(0,Y.jsxs)(`button`,{type:`button`,className:`icon-button danger`,title:`Delete`,onClick:r,children:[(0,Y.jsx)(d,{size:17,"aria-hidden":`true`}),(0,Y.jsx)(`span`,{className:`sr-only`,children:`Delete`})]})]})]})}var ct=class extends w.Component{state={message:null};static getDerivedStateFromError(e){return{message:e.message||`Something went wrong.`}}componentDidCatch(e,t){}render(){return this.state.message?(0,Y.jsx)(`main`,{className:`app-shell`,children:(0,Y.jsxs)(`section`,{className:`empty-state`,role:`alert`,children:[(0,Y.jsx)(`h1`,{children:`Read Later Curriculum`}),(0,Y.jsx)(`p`,{children:this.state.message}),(0,Y.jsx)(`button`,{type:`button`,onClick:()=>window.location.reload(),children:`Reload`})]})}):this.props.children}},lt=new b({defaultOptions:{queries:{staleTime:2e4,gcTime:5*6e4}}});`serviceWorker`in navigator&&window.addEventListener(`load`,()=>{navigator.serviceWorker.register(`/read-later-curriculum/sw.js`).catch(()=>void 0)}),(0,T.createRoot)(document.getElementById(`root`)).render((0,Y.jsx)(w.StrictMode,{children:(0,Y.jsx)(ce,{client:lt,children:(0,Y.jsx)(ct,{children:(0,Y.jsx)(ot,{})})})}));

diff --git a/vite.config.ts b/vite.config.ts
@@ -1,4 +1,5 @@
 import { execSync } from "node:child_process";
+import { existsSync, readFileSync } from "node:fs";
 import tailwindcss from "@tailwindcss/vite";
 import react from "@vitejs/plugin-react";
 import { defineConfig } from "vite";
@@ -15,9 +16,18 @@ function gitValue(command: string, fallback: string) {
   }
 }
 
+function fileValue(path: string) {
+  return existsSync(path) ? readFileSync(path, "utf8").trim() : undefined;
+}
+
 const commit =
-  process.env.VITE_COMMIT_SHA ?? gitValue("git rev-parse --short HEAD", "dev");
-const builtAt = process.env.VITE_BUILT_AT ?? new Date().toISOString();
+  process.env.VITE_COMMIT_SHA ??
+  fileValue("BUILD_COMMIT") ??
+  gitValue("git rev-parse --short HEAD", "dev");
+const builtAt =
+  process.env.VITE_BUILT_AT ??
+  fileValue("BUILD_TIMESTAMP") ??
+  new Date().toISOString();
 
 // https://vite.dev/config/
 export default defineConfig({

diff --git a/docs/404.html b/docs/404.html
@@ -15,7 +15,7 @@
     />
     <link rel="manifest" href="/read-later-curriculum/manifest.webmanifest" />
     <title>Read Later Curriculum</title>
-    <script type="module" crossorigin src="/read-later-curriculum/assets/index-D4tMszzo.js"></script>
+    <script type="module" crossorigin src="/read-later-curriculum/assets/index-B84jUUXN.js"></script>
     <link rel="modulepreload" crossorigin href="/read-later-curriculum/assets/rolldown-runtime-DWdDZTNf.js">
     <link rel="modulepreload" crossorigin href="/read-later-curriculum/assets/vendor-CgVfIPGj.js">
     <link rel="modulepreload" crossorigin href="/read-later-curriculum/assets/vendor-react-DQ0RudYS.js">

diff --git a/docs/index.html b/docs/index.html
@@ -15,7 +15,7 @@
     />
     <link rel="manifest" href="/read-later-curriculum/manifest.webmanifest" />
     <title>Read Later Curriculum</title>
-    <script type="module" crossorigin src="/read-later-curriculum/assets/index-D4tMszzo.js"></script>
+    <script type="module" crossorigin src="/read-later-curriculum/assets/index-B84jUUXN.js"></script>
     <link rel="modulepreload" crossorigin href="/read-later-curriculum/assets/rolldown-runtime-DWdDZTNf.js">
     <link rel="modulepreload" crossorigin href="/read-later-curriculum/assets/vendor-CgVfIPGj.js">
     <link rel="modulepreload" crossorigin href="/read-later-curriculum/assets/vendor-react-DQ0RudYS.js">
